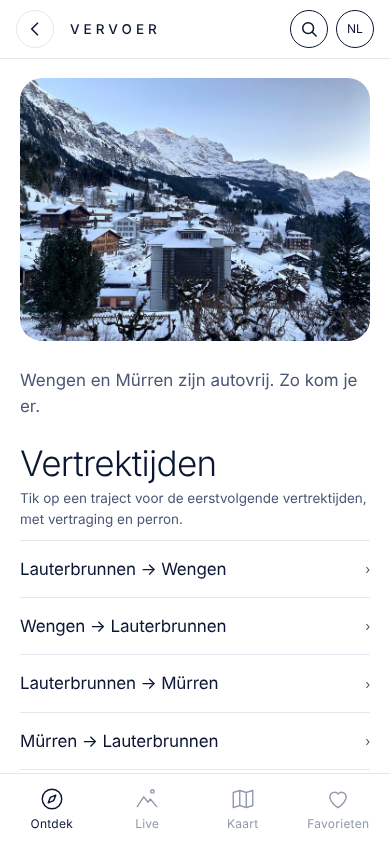
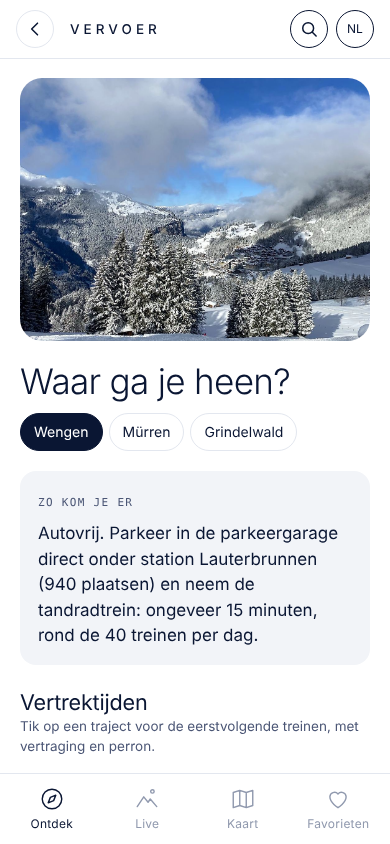
Vervoer overzichtelijker: kies je bestemming, vertrektijden per richting, nieuw beeld
Claude-Session: https://claude.ai/code/session_01BKK4JeDJLrK7vcsz3SwdsN

diff --git a/app/index.html b/app/index.html
@@ -409,6 +409,11 @@ select,input[type=text]{background:var(--snow)}
 .sr>button.go{flex:1;min-width:0;text-align:left;background:none;border:0;padding:14px 0;color:var(--ink);font:400 17px "Hanken Grotesk",sans-serif;display:flex;flex-direction:column;gap:2px}
 .sr small{font-size:12.5px;color:var(--muted)}
 .shint{color:var(--muted);margin:18px 0}
+.trban{margin:20px 0 22px;position:relative}.trban figcaption{position:absolute;right:10px;bottom:8px;font-size:10px;color:#fff;text-shadow:0 1px 3px rgba(0,0,0,.65)}.trban figcaption a{color:#fff}
+.trhow{background:var(--card);border-radius:16px;padding:16px 18px;margin:18px 0 26px}.trhow p{margin:8px 0 0;line-height:1.5}
+.trh3{font-size:1.35rem;font-weight:400;margin:0}
+#trBody .sgh{margin:18px 0 0}
+
 #welc{position:absolute;inset:0;z-index:30;background:var(--snow);display:none;flex-direction:column;padding:calc(env(safe-area-inset-top) + 28px) 26px calc(env(safe-area-inset-bottom) + 22px);overflow-y:auto}
 #welc.on{display:flex}
 .hhero{margin:0 0 22px;position:relative}.hhero img{display:block;width:100%;aspect-ratio:3/2;object-fit:cover;border-radius:18px}
@@ -619,13 +624,10 @@ a{color:var(--ink)}
 </section>
 
 <section class="view" id="v-reis">
-  <div class="banner" id="banTravel"></div>
-  <p class="lead" data-i="fTravelS"></p>
-  <h2 style="margin-top:6px" data-i="trH"></h2>
-  <p class="small muted" style="margin:6px 0 10px" data-i="trS"></p>
-  <div id="trList"></div>
-  <h2 style="margin-top:38px" data-i="trInfo"></h2>
-  <div id="travelList"></div>
+  <figure class="banner trban" id="banTravel"></figure>
+  <h2 style="margin:4px 0 12px" data-i="trQ"></h2>
+  <div class="chips" id="trChips"></div>
+  <div id="trBody"></div>
 </section>
 
 <section class="view" id="v-doen">
@@ -865,10 +867,9 @@ function drawStart(){
   const G={blue:'#1C6DD0',red:'#D42A3A',black:'#2B2B31'},lv=t('lv');
   $('#tiles').innerHTML=ROUTES.map(r=>{const d=R(r.id);return `<button class="tile" onclick="openRoute(${r.id})">${rtImg(r.id,'loading="lazy"')}<span class="label">${t('route')} ${r.id} · ${lv[r.lv]}</span><b>${d[0]}</b><span class="tm">${d[1]} → ${d[2]} · ${d[4]}</span></button>`}).join('');
   $('#heroSun').textContent=zt(sunTimes(Date.now())[1]);
-    $('#banTravel').innerHTML=pic('village');
+    $('#banTravel').innerHTML=`<img src="https://dam.media.jungfrau.ch/image/upload/s--GcE6Jh4g--/c_limit,f_auto,h_800/v1772439890/Wengernalpbahn-Zug-im-Schnee-mit-KLS-im-Hintergrund" onerror="this.onerror=null;this.src='media/e-wengen2.jpg';var n=this.nextElementSibling;if(n)n.hidden=true" alt=""><figcaption>Wengernalpbahn · ${JBCR}</figcaption>`;
   $('#imgNote').hidden=!IMG.ai;
   $('#rulesL').innerHTML=sec('rules').map(r=>`<li>${r}</li>`).join('');$('#tipsL').innerHTML=sec('tips').map(r=>`<li>${r}</li>`).join('');
-  $('#travelList').innerHTML=sec('travel').map(x=>`<div class="trow"><h3>${x[0]}</h3><p>${x[1]}</p></div>`).join('');
   $('#ttl').textContent=curView==='start'?'Firn':t(TITLE[curView]);
   drawSchools();
   drawRadarSum();
@@ -1235,7 +1236,17 @@ $$('nav.tabs button').forEach(b=>b.onclick=()=>{NAV.length=0;navSaved=true;show(
 /* ---------- treintijden (transport.opendata.ch, gegevens van de Zwitserse vervoerders) ---------- */
 const TRIPS=[['Lauterbrunnen','Wengen'],['Wengen','Lauterbrunnen'],['Lauterbrunnen','Mürren BLM'],['Mürren BLM','Lauterbrunnen'],['Stechelberg, Schilthornbahn','Mürren BLM'],['Interlaken Ost','Lauterbrunnen'],['Interlaken Ost','Grindelwald'],['Grindelwald','Kleine Scheidegg'],['Wengen','Kleine Scheidegg'],['Lauterbrunnen','Interlaken Ost'],['Grindelwald','Interlaken Ost']];
 const trNm=x=>x.replace(' BLM','').replace(', Schilthornbahn','');
-function drawTrips(){$('#trList').innerHTML=TRIPS.map((x,i)=>`<details class="lf tr" ontoggle="if(this.open)loadTrip(${i},this)"><summary><span>${esc(trNm(x[0]))} → ${esc(trNm(x[1]))}</span><span class="arr">›</span></summary><div class="trb"><p class="small muted">…</p></div></details>`).join('')}
+const TRG={wen:[['trTo',[0]],['trBack',[1]],['trUp',[8]],['trRail',[5,9]]],mur:[['trTo',[2,4]],['trBack',[3]],['trRail',[5,9]]],gri:[['trTo',[6]],['trBack',[10]],['trUp',[7]]]};
+let trV=S.get('trv','wen');
+function drawTrips(){const el=$('#trBody');if(!el)return;const tv=sec('travel'),V=[['wen',0],['mur',1],['gri',2]];if(!TRG[trV])trV='wen';
+  $('#trChips').innerHTML=V.map(v=>`<button class="chip" aria-pressed="${trV===v[0]}" data-v="${v[0]}">${esc(tv[v[1]][0])}</button>`).join('');
+  $('#trChips').querySelectorAll('button').forEach(b=>b.onclick=()=>{trV=b.dataset.v;S.set('trv',trV);drawTrips()});
+  const me=tv[V.find(v=>v[0]===trV)[1]],row=i=>{const x=TRIPS[i];return `<details class="lf tr" ontoggle="if(this.open)loadTrip(${i},this)"><summary><span>${esc(trNm(x[0]))} → ${esc(trNm(x[1]))}</span><span class="arr">›</span></summary><div class="trb"><p class="small muted">…</p></div></details>`};
+  el.innerHTML=`<div class="trhow"><span class="shopk">${t('trHow')}</span><p>${me[1]}</p></div>
+   <h3 class="trh3">${t('trH')}</h3><p class="small muted" style="margin:2px 0 6px">${t('trS')}</p>
+   ${TRG[trV].map(g=>`<div class="sgh">${t(g[0])}</div>${g[1].map(row).join('')}`).join('')}
+   <h3 class="trh3" style="margin-top:34px">${t('trMore')}</h3>
+   ${[3,4].map(k=>`<details class="lf tr"><summary><span>${tv[k][0]}</span><span class="arr">›</span></summary><div class="trb"><p style="margin:0 0 14px">${tv[k][1]}</p></div></details>`).join('')}`}
 function loadTrip(i,el){const x=TRIPS[i],box=el.querySelector('.trb');box.innerHTML='<p class="small muted">…</p>';
   fetch('https://transport.opendata.ch/v1/connections?limit=5&from='+encodeURIComponent(x[0])+'&to='+encodeURIComponent(x[1])).then(r=>r.ok?r.json():Promise.reject()).then(j=>{const c=(j.connections||[]);if(!c.length){box.innerHTML=`<p class="small muted">${t('trNone')}</p>`;return}
     const hm=s=>s?s.slice(11,16):'';box.innerHTML=`<table class="trt">${c.map(q=>{const d=q.from.delay,du=(q.duration||'').match(/(\d+):(\d+):/),min=du?(+du[1]*60+ +du[2]):null;return `<tr><td>${hm(q.from.departure)}${d?`<span class="dl">+${d}</span>`:''}</td><td>→ ${hm(q.to.arrival)}${q.from.platform?` · ${t('trPl')} ${esc(q.from.platform)}`:''}</td><td>${min!=null?min+' min':''}${q.transfers?` · ${q.transfers}×`:''}</td></tr>`}).join('')}</table>`}).catch(()=>{box.innerHTML=`<p class="small muted">${t('trErr')}</p>`})}
@@ -1387,7 +1398,7 @@ function routeToday(){const p=WX&&WX.pts&&WX.pts.find(x=>x.k==='ks'),ic=p&&p.d[0
 function drawHome(){const el=$('#home');if(!el)return;let rt;try{rt=routeToday();NLL;EM}catch(e){return}
   const loc=cur==='en'?'en-GB':cur,ks=WX&&WX.pts&&WX.pts.find(x=>x.k==='ks'),h0=ks&&ks.h[0],d1=ks&&ks.d[1],se=season(),r=rt.r,d=R(r.id),lv=t('lv'),e=EAT.find(x=>x.id===r.eat),ed=g('eat',e.id),f=EM[e.id]!=null?MD.food[EM[e.id]]:null;
   const today=h0?`${t('wc')[h0[5]]} ${t('hmAt')} Kleine Scheidegg, ${deg(h0[1])}.${d1?` ${t('hmTom')}: ${t('wc')[d1[5]].toLowerCase()}, ${deg(d1[1])} / ${deg(d1[2])}.`:''}`:t('wxNo');
-  el.innerHTML=`<figure class="hhero"><img src="${jbUrl('hero')}" onerror="this.onerror=null;this.src='media/e-hero.jpg';this.nextElementSibling.hidden=true" alt=""><figcaption>Kleine Scheidegg · <a href="${JBC.u}" target="_blank" rel="noopener">${JBC.a}</a></figcaption></figure><div class="hb"><h2>${t('hmToday')}</h2><p>${today}</p><div id="nowIn"></div></div>
+  el.innerHTML=`<figure class="hhero"><img src="${jbUrl('hero')}" onerror="this.onerror=null;this.src='media/e-hero.jpg';var n=this.nextElementSibling;if(n)n.hidden=true" alt=""><figcaption>Kleine Scheidegg · <a href="${JBC.u}" target="_blank" rel="noopener">${JBC.a}</a></figcaption></figure><div class="hb"><h2>${t('hmToday')}</h2><p>${today}</p><div id="nowIn"></div></div>
    ${se?`<div class="hb"><div class="hbig"><b>${se.n}</b><span>${t(se.k)}</span></div><p>Grindelwald-Wengen ${t('d1')} · Mürren-Schilthorn ${t('d2')}</p></div>`:''}
    <div class="hb"><h2>${t('hmRoute')}</h2><p>${t(rt.bad?'hmRouteBad':'hmRouteSun')}</p>
      <button class="hcard" onclick="openRoute(${r.id})">${rtImg(r.id,'loading="lazy"')}<span class="in"><span><span class="bdg" style="background:${rcol(r)}">${lv[r.lv]}</span></span><b>${esc(d[0])}</b><span class="tm">${esc(d[1])} → ${esc(d[2])} · ${esc(d[4])}</span></span></button>

diff --git a/app/lang-de.js b/app/lang-de.js
@@ -200,3 +200,5 @@ Object.assign(LANG.de.ui,{"wH": "Willkommen bei Firn", "wSub": "Dein unabhängig
 Object.assign(LANG.de.ui,{"qaRent": "Verleih", "rnS": "Skiverleih und Sportgeschäfte in den Dörfern. In der Hochsaison vorab reservieren.", "rnAll": "Alle", "rnRent": "Verleih", "rnShop": "Sportgeschäft", "rnMap": "Route"});
 
 Object.assign(LANG.de.ui,{"qaRent": "Sportgeschäfte", "rnS": "Sportgeschäfte in den Dörfern und am Berg. Viele verleihen auch Ski: ruf an oder schau auf die Website und reserviere in der Hochsaison vorab.", "rnMt": "Am Berg"});
+
+Object.assign(LANG.de.ui,{"trQ": "Wohin geht es?", "trHow": "So kommst du hin", "trTo": "Hin", "trBack": "Zurück", "trUp": "Auf den Berg", "trRail": "Von und nach Interlaken", "trMore": "Gut zu wissen", "trS": "Tippe auf eine Strecke für die nächsten Abfahrten, mit Verspätung und Gleis."});

diff --git a/app/lang-nl.js b/app/lang-nl.js
@@ -200,3 +200,5 @@ Object.assign(LANG.nl.ui,{"wH": "Welkom bij Firn", "wSub": "Je onafhankelijke sk
 Object.assign(LANG.nl.ui,{"qaRent": "Verhuur", "rnS": "Skiverhuur en sportwinkels in de dorpen. Reserveer in het hoogseizoen vooraf.", "rnAll": "Alles", "rnRent": "Verhuur", "rnShop": "Sportwinkel", "rnMap": "Route"});
 
 Object.assign(LANG.nl.ui,{"qaRent": "Sportwinkels", "rnS": "Sportwinkels in de dorpen en op de berg. Veel ervan verhuren ook ski’s: bel of kijk op de website, en reserveer in het hoogseizoen vooraf.", "rnMt": "Op de berg"});
+
+Object.assign(LANG.nl.ui,{"trQ": "Waar ga je heen?", "trHow": "Zo kom je er", "trTo": "Heen", "trBack": "Terug", "trUp": "De berg op", "trRail": "Van en naar Interlaken", "trMore": "Meer weten", "trS": "Tik op een traject voor de eerstvolgende treinen, met vertraging en perron."});

diff --git a/app/lang-en.js b/app/lang-en.js
@@ -201,3 +201,5 @@ Object.assign(LANG.en.ui,{"wH": "Welcome to Firn", "wSub": "Your independent ski
 Object.assign(LANG.en.ui,{"qaRent": "Rental", "rnS": "Ski rental and sports shops in the villages. Book ahead in high season.", "rnAll": "All", "rnRent": "Rental", "rnShop": "Sports shop", "rnMap": "Directions"});
 
 Object.assign(LANG.en.ui,{"qaRent": "Ski shops", "rnS": "Sports shops in the villages and on the mountain. Many also rent skis: call or check the website, and book ahead in high season.", "rnMt": "On the mountain"});
+
+Object.assign(LANG.en.ui,{"trQ": "Where are you going?", "trHow": "How to get there", "trTo": "Outbound", "trBack": "Return", "trUp": "Up the mountain", "trRail": "To and from Interlaken", "trMore": "More to know", "trS": "Tap a connection for the next departures, with delays and platform."});

diff --git a/app/lang-fr.js b/app/lang-fr.js
@@ -201,3 +201,5 @@ Object.assign(LANG.fr.ui,{"qaRent": "Location", "rnS": "Location de skis et maga
 
 Object.assign(LANG.fr.ui,{"qaRent": "Magasins de ski", "rnS": "Magasins de sport dans les villages et sur la montagne. Beaucoup louent aussi des skis : appelez ou consultez le site, et réservez à l’avance en haute saison.", "rnMt": "En montagne"});
 Object.assign(LANG.fr.ui,{"qaRent":"Magasins"});
+
+Object.assign(LANG.fr.ui,{"trQ": "Où allez-vous ?", "trHow": "Comment y aller", "trTo": "Aller", "trBack": "Retour", "trUp": "Vers les pistes", "trRail": "De et vers Interlaken", "trMore": "À savoir", "trS": "Touchez un trajet pour les prochains départs, avec retard et voie."});
